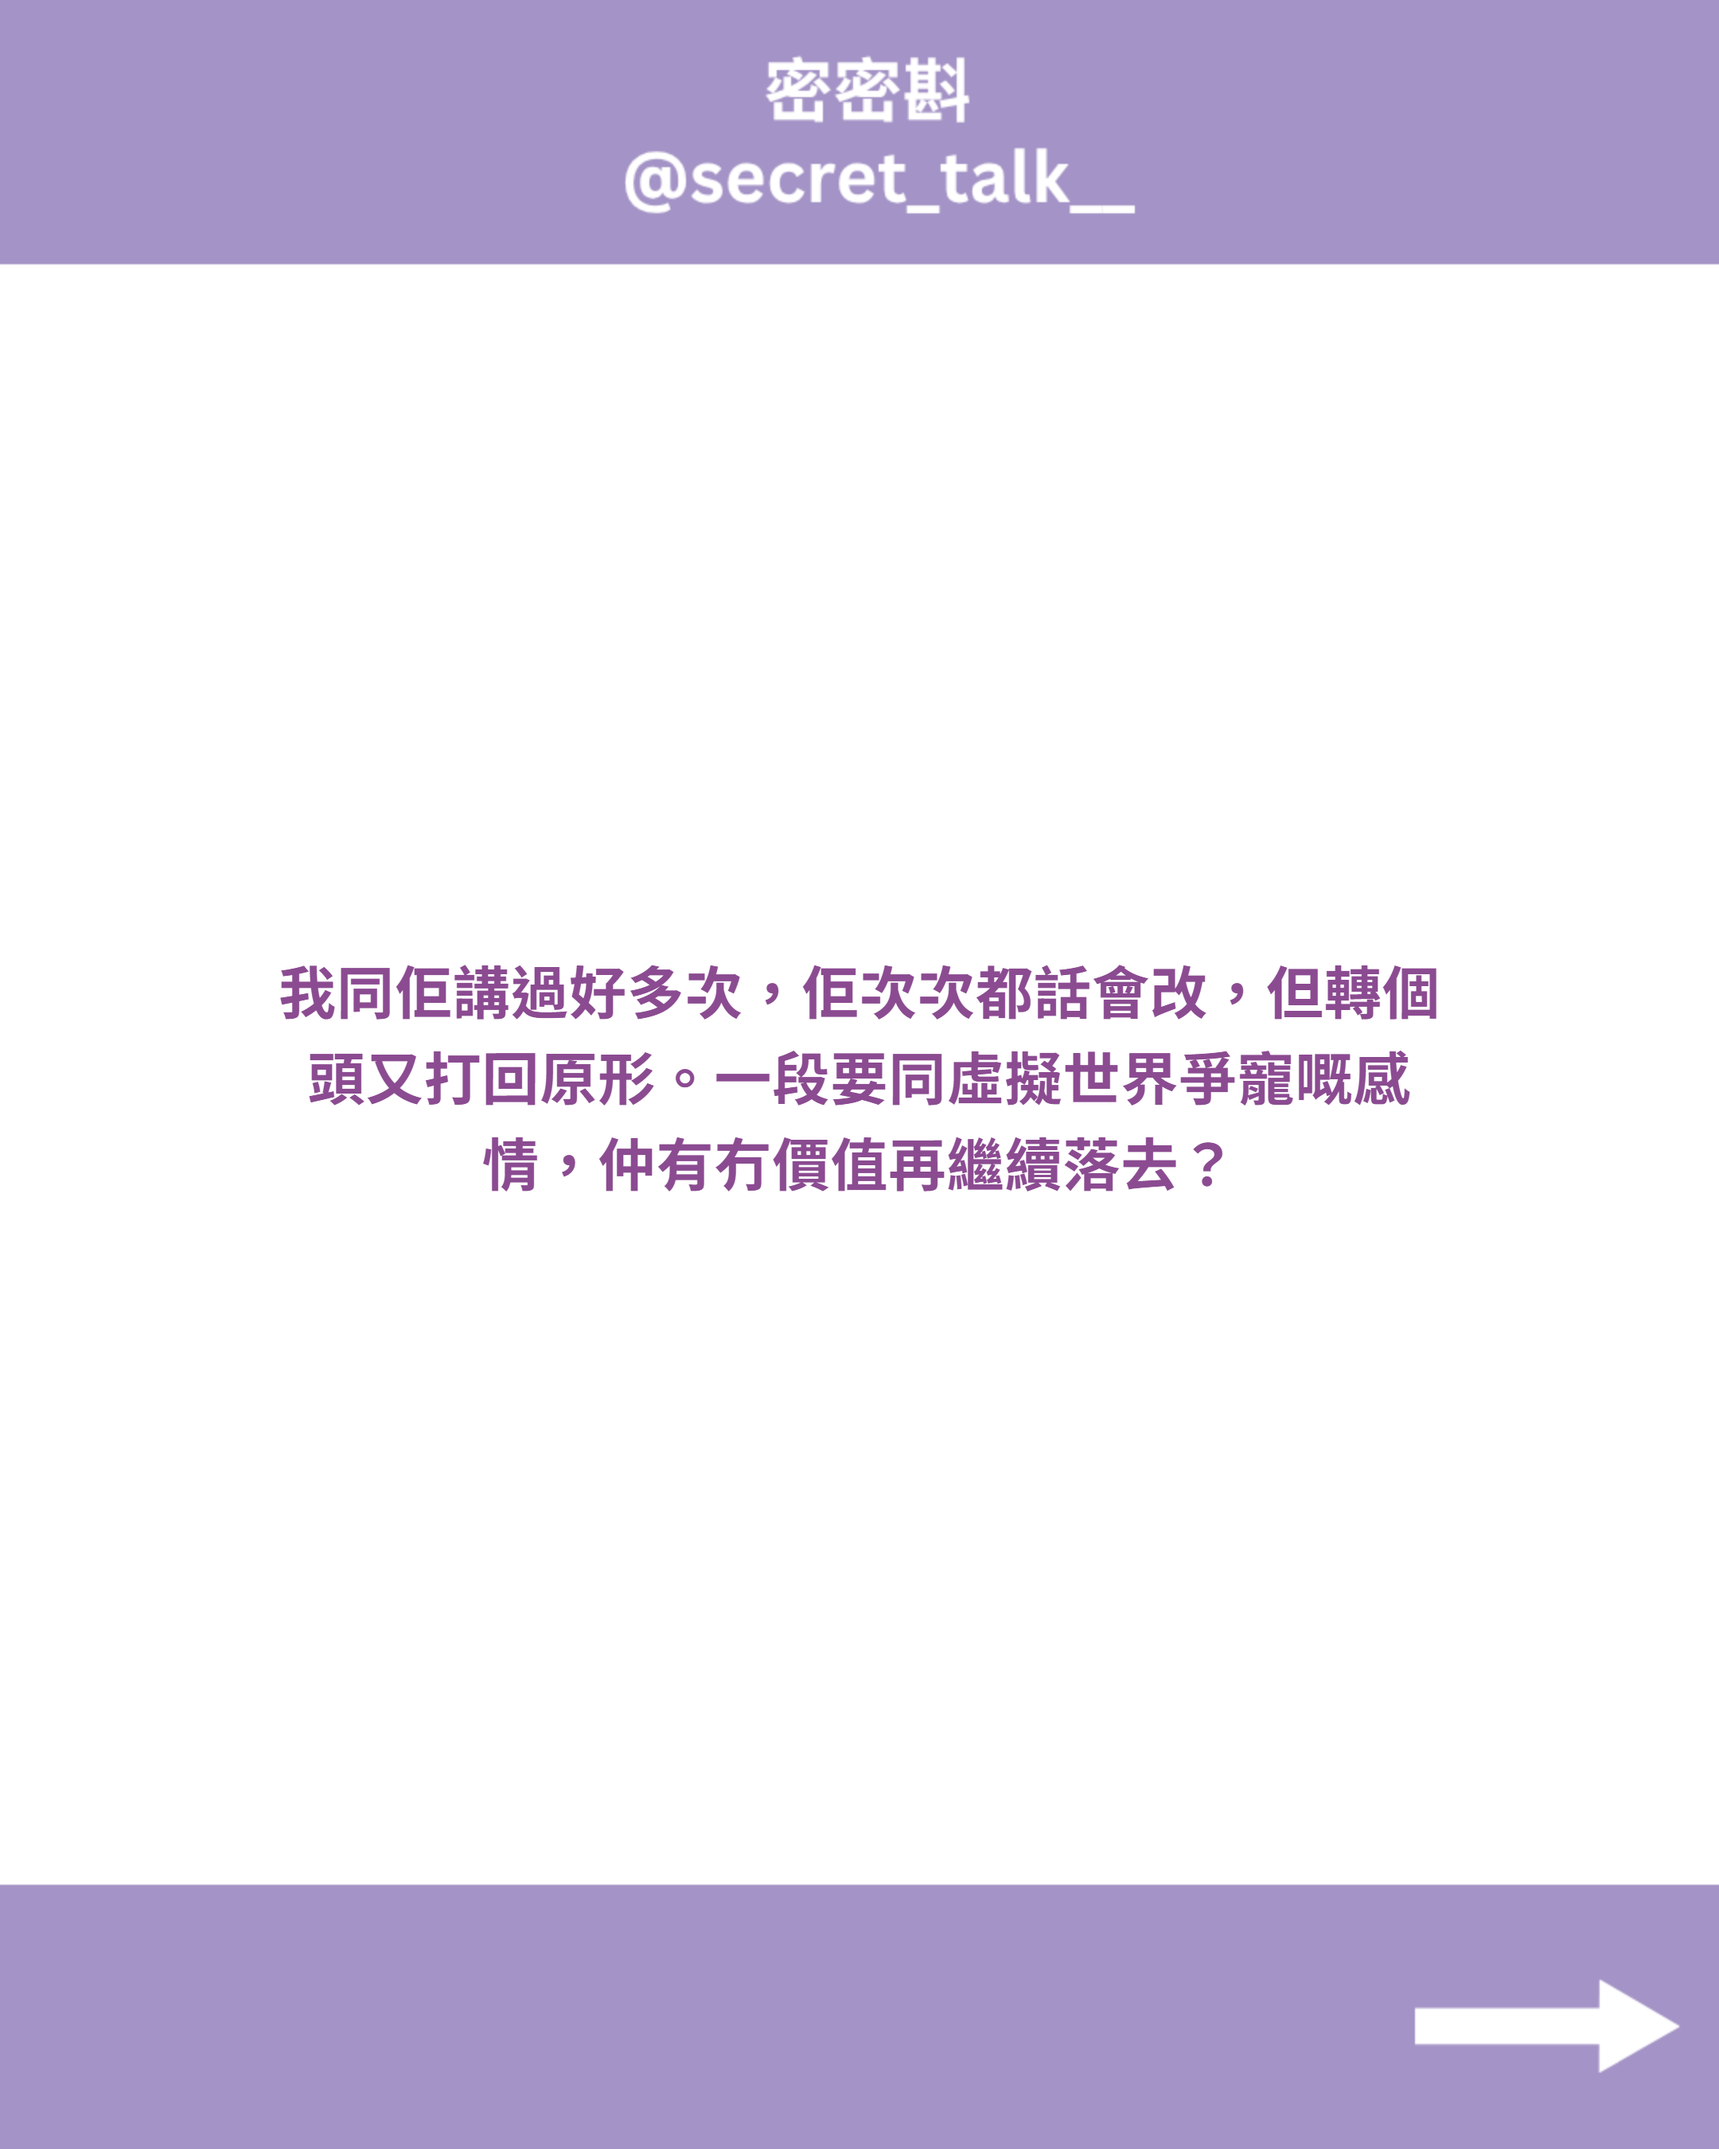
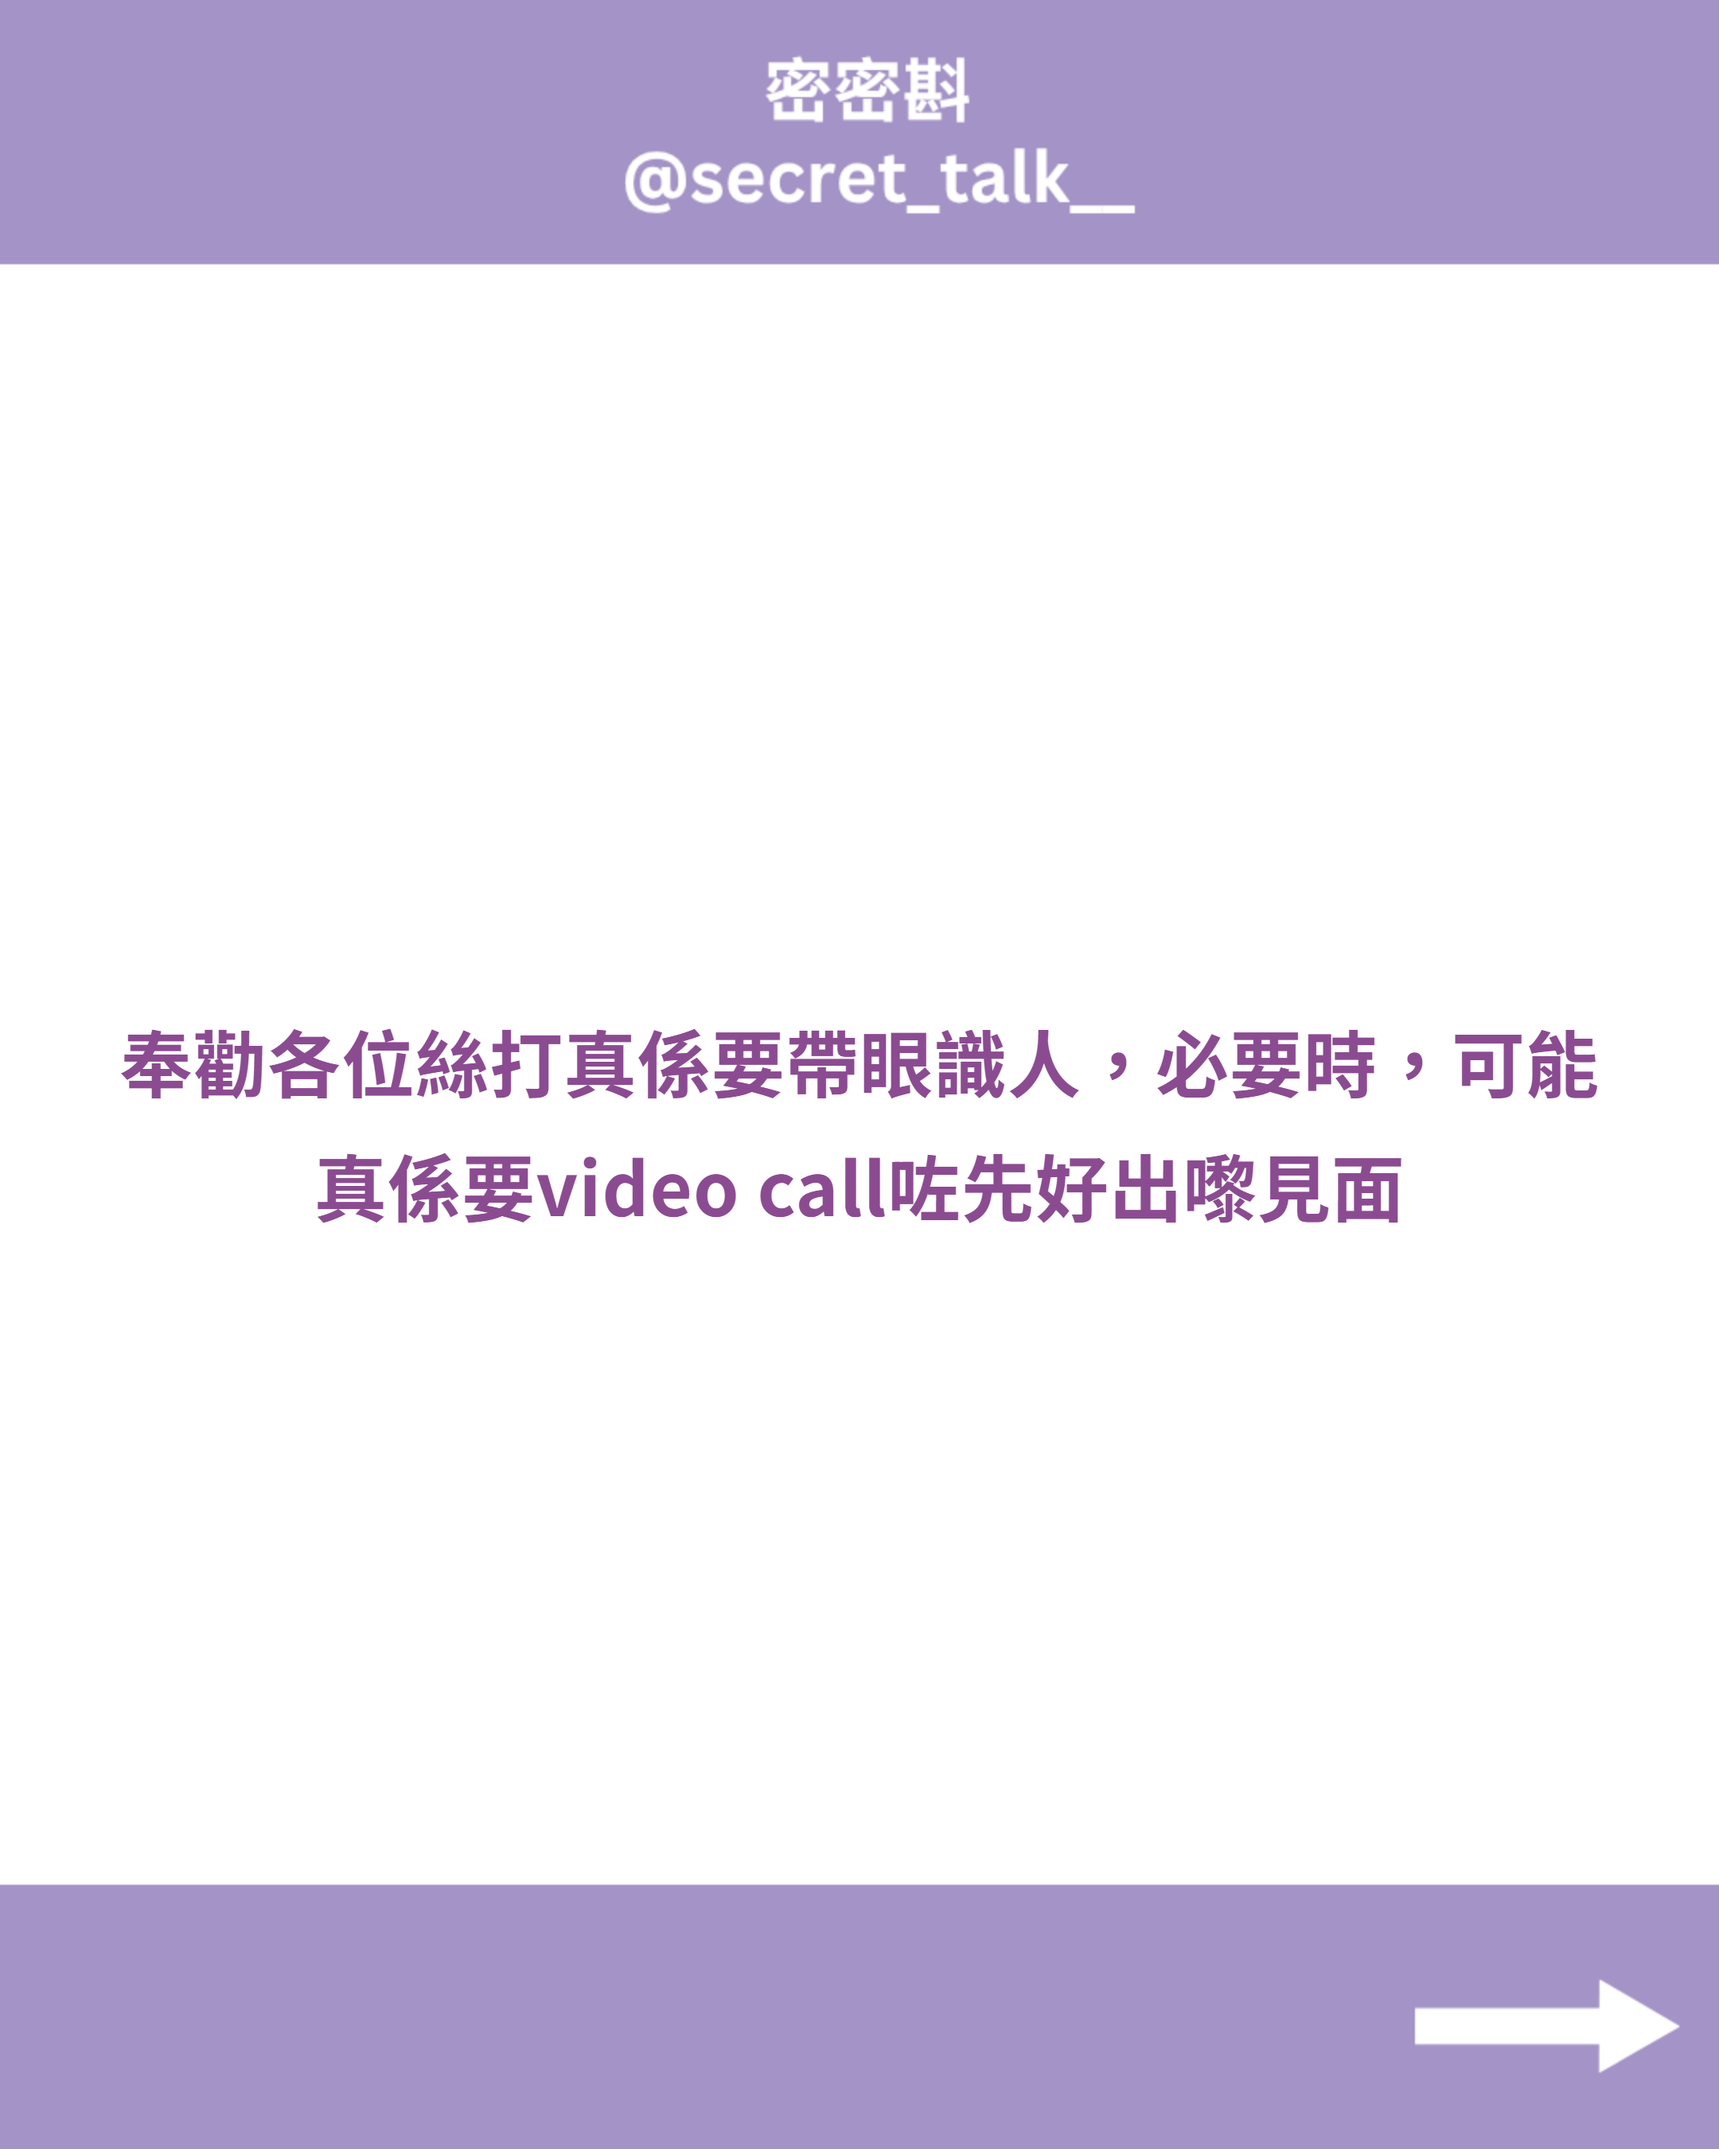
Fix font size, text alignment, and increase page limit
ISSUES FIXED:
1. Text was too small to read properly
2. Text was left-aligned instead of centered
3. Page limit was only 6, but user requested up to 9 images

SOLUTIONS IMPLEMENTED:
 FONT SIZE INCREASES:
- Title: 52px  62px (+10px)
- Conclusion: 36px  46px (+10px)
- Content (long): 32px  42px (+10px)
- Content (medium): 36px  46px (+10px)
- Content (short): 40px  50px (+10px)
- Content (default): 38px  48px (+10px)

 TEXT ALIGNMENT FIXES:
- Changed text-align from 'left' to 'center'
- Changed container align-items from 'flex-start' to 'center'
- Changed #xiaohongshu-post justify-content from 'flex-start' to 'center'

 PAGE LIMIT INCREASE:
- Increased target_max_parts from 6 to 9 content pages
- Total images can now be up to 12 (9 content + title + conclusion + end)

RESULTS:
 Much larger, more readable text
 Properly centered text alignment
 Support for up to 9 content pages
 Generated and sent successfully to Telegram (1.29MB total)

Changed region(s): [[0.062, 0.4356, 0.9306, 0.5911]]

diff --git a/ming/relationship_template_generator.py b/ming/relationship_template_generator.py
@@ -17,19 +17,19 @@ def generate_exact_custom_template(content, template_type="content", perspective
     # Wrap in paragraph tags
     exact_content = f'<p>{exact_content}</p>'
     
-    # Adjust font size based on content length for better fit
+    # Adjust font size based on content length for better fit (increased sizes)
     content_length = len(content)
     if template_type == "content" and content_length > 50:
-        font_size = "32px"  # Smaller font for longer content
+        font_size = "42px"  # Increased from 32px for longer content
     elif template_type == "content" and content_length > 40:
-        font_size = "36px"  # Medium font for medium content
+        font_size = "46px"  # Increased from 36px for medium content
     elif template_type == "content" and content_length > 30:
-        font_size = "40px"  # Larger font for shorter content
+        font_size = "50px"  # Increased from 40px for shorter content
     
     # Choose styling based on template type with proper sizing for mobile display
     if template_type == "title":
         bg_image = "content_page1_girl.png" if perspective == "female" else "content_page1_boy.png"
-        font_size = "52px"  # Reduced from 78px
+        font_size = "62px"  # Increased from 52px for better visibility
         font_weight = "900"
         color = "#3f3257"
         content_class = "title"
@@ -41,7 +41,7 @@ def generate_exact_custom_template(content, template_type="content", perspective
         """
     elif template_type == "conclusion":
         bg_image = "content_page1_girl.png" if perspective == "female" else "content_page1_boy.png"
-        font_size = "36px"  # Reduced from 42px
+        font_size = "46px"  # Increased from 36px for better readability
         font_weight = "700"
         color = "#8B4B91"
         content_class = "question"
@@ -49,7 +49,7 @@ def generate_exact_custom_template(content, template_type="content", perspective
     else:  # content pages
         bg_image = "content_page1_girl.png" if perspective == "female" else "content_page1_boy.png"
         if 'font_size' not in locals():  # Only set if not already set above
-            font_size = "38px"  # Default font size for content pages
+            font_size = "48px"  # Increased default font size for content pages
         font_weight = "500"
         color = "#3f3257"
         content_class = "story-content"
@@ -74,7 +74,7 @@ def generate_exact_custom_template(content, template_type="content", perspective
                 font-family: 'Noto Sans TC', sans-serif;
                 display: flex;
                 flex-direction: column;
-                justify-content: flex-start;
+                justify-content: center;
                 align-items: center;
                 position: relative;
                 box-sizing: border-box;
@@ -86,7 +86,7 @@ def generate_exact_custom_template(content, template_type="content", perspective
                 max-width: 1000px;
                 display: flex;
                 justify-content: center;
-                align-items: flex-start;
+                align-items: center;
                 z-index: 2;
                 position: relative;
                 padding: 20px 10px;
@@ -99,7 +99,7 @@ def generate_exact_custom_template(content, template_type="content", perspective
                 color: {color};
                 line-height: 1.5;
                 font-weight: {font_weight};
-                text-align: left;
+                text-align: center;
                 text-shadow: 2px 2px 4px rgba(255,255,255,0.9), -2px -2px 4px rgba(255,255,255,0.9);
                 letter-spacing: 0.5px;
                 {extra_style}

diff --git a/ming/setup_telegram.py b/ming/setup_telegram.py
@@ -1,0 +1,121 @@
+#!/usr/bin/env python3
+"""
+📱 Telegram 設置助手
+幫助用戶創建 .env 檔案並配置 Telegram 發送功能
+"""
+
+import os
+
+def create_env_file():
+    """創建 .env 檔案"""
+    print("🚀 Telegram 設置助手")
+    print("=" * 50)
+    
+    env_path = ".env"
+    
+    # 檢查是否已存在 .env 檔案
+    if os.path.exists(env_path):
+        print(f"⚠ {env_path} 檔案已存在")
+        overwrite = input("是否要覆蓋現有檔案？(y/N): ").strip().lower()
+        if overwrite != 'y':
+            print("❌ 取消操作")
+            return
+    
+    print("\n📝 請提供以下資訊：")
+    print("💡 如果暫時沒有某個值，可以留空，之後再填")
+    
+    # 收集用戶輸入
+    telegram_bot_token = input("\n🤖 Telegram Bot Token: ").strip()
+    telegram_chat_id = input("💬 Telegram Chat ID: ").strip()
+    openai_api_key = input("🧠 OpenAI API Key: ").strip()
+    notion_token = input("📝 Notion Token (可選): ").strip()
+    notion_page_id = input("📄 Notion Page ID (可選): ").strip()
+    
+    # 創建 .env 內容
+    env_content = f"""# Telegram Configuration
+TELEGRAM_BOT_TOKEN={telegram_bot_token}
+TELEGRAM_CHAT_ID={telegram_chat_id}
+
+# OpenAI Configuration
+OPENAI_API_KEY={openai_api_key}
+
+# Notion Configuration (Optional)
+NOTION_TOKEN={notion_token}
+NOTION_PAGE_ID={notion_page_id}
+
+# 📝 設置說明：
+# 1. Telegram Bot Token: 從 @BotFather 獲取
+# 2. Chat ID: 你想發送訊息嘅群組或頻道 ID
+# 3. OpenAI API Key: 從 https://platform.openai.com/api-keys 獲取
+# 4. Notion 設置係可選嘅，用於進階功能
+"""
+    
+    # 寫入檔案
+    try:
+        with open(env_path, 'w', encoding='utf-8') as f:
+            f.write(env_content)
+        print(f"\n✅ 成功創建 {env_path} 檔案！")
+        
+        # 檢查必要設置
+        missing = []
+        if not telegram_bot_token:
+            missing.append("Telegram Bot Token")
+        if not telegram_chat_id:
+            missing.append("Telegram Chat ID")
+        if not openai_api_key:
+            missing.append("OpenAI API Key")
+        
+        if missing:
+            print(f"\n⚠ 以下設置仍然缺少：")
+            for item in missing:
+                print(f"  - {item}")
+            print(f"💡 請編輯 {env_path} 檔案並填入缺少嘅值")
+        else:
+            print("\n🎉 所有必要設置都已完成！")
+            print("🚀 而家可以運行 python relationship_main.py 並選擇選項 6")
+        
+    except Exception as e:
+        print(f"❌ 創建檔案時出錯：{e}")
+
+def show_help():
+    """顯示幫助資訊"""
+    print("""
+📚 獲取 API Keys 嘅方法：
+
+🤖 Telegram Bot Token:
+1. 喺 Telegram 搵 @BotFather
+2. 發送 /newbot
+3. 跟住指示創建 bot
+4. 複製返嚟嘅 token
+
+💬 Telegram Chat ID:
+1. 將你嘅 bot 加入群組/頻道
+2. 發送一條訊息
+3. 訪問：https://api.telegram.org/bot你嘅_TOKEN/getUpdates
+4. 搵 "chat" -> "id" 數值
+
+🧠 OpenAI API Key:
+1. 訪問 https://platform.openai.com/api-keys
+2. 登入並創建新 key
+3. 複製 key
+
+📝 Notion (可選):
+1. 訪問 https://www.notion.so/my-integrations
+2. 創建新 integration
+3. 複製 token 同 page ID
+""")
+
+if __name__ == "__main__":
+    print("選擇操作：")
+    print("1. 創建 .env 檔案")
+    print("2. 顯示幫助資訊")
+    
+    choice = input("請選擇 (1-2): ").strip()
+    
+    if choice == "1":
+        create_env_file()
+    elif choice == "2":
+        show_help()
+    else:
+        print("❌ 無效選擇")
+

diff --git a/ming/custom_story_reader.py b/ming/custom_story_reader.py
@@ -294,8 +294,8 @@ def split_content_for_images(content, target_parts=3):
     # 移除空白部分
     parts = [part for part in parts if part.strip()]
     
-    # 控制總圖片數量少於10張（包括標題、結論、結尾圖片）
-    target_max_parts = 6  # 目標最多6個內容頁（加上標題、結論、結尾頁，總共9張圖片）
+    # 控制總圖片數量少於12張（包括標題、結論、結尾圖片）
+    target_max_parts = 9  # 目標最多9個內容頁（加上標題、結論、結尾頁，總共12張圖片）
     
     # 如果分割後部分太多，智能合併
     while len(parts) > target_max_parts:
